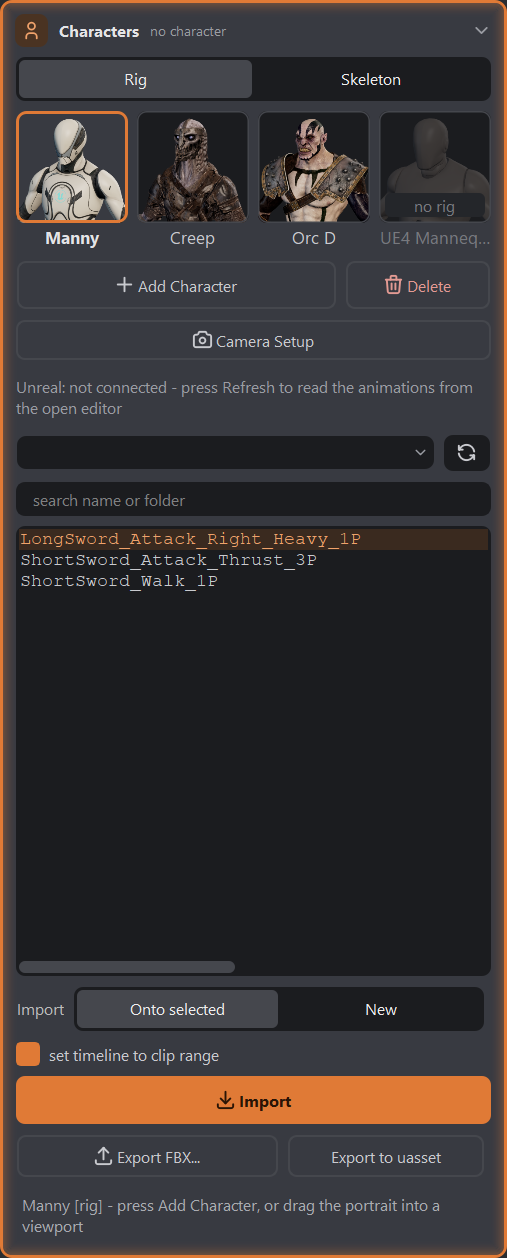
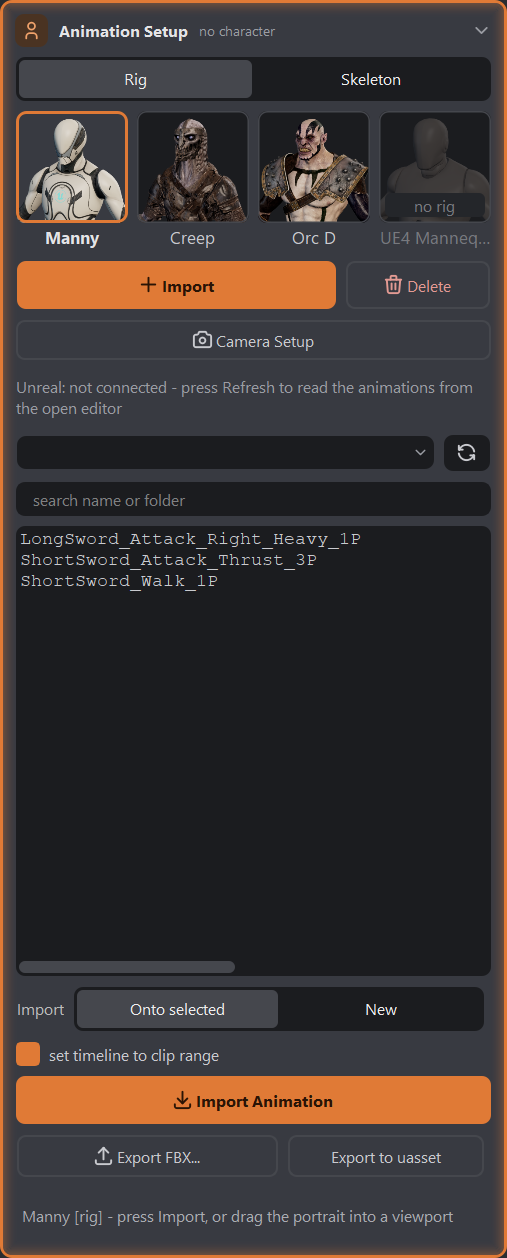
feat(characters): the card is Animation Setup; + Import and Import Animation, both orange
«Давай Раздел Character Заменим на Animationsetup. Add Character на + Import
(Вернем кнопке оранжевый цвет).» Asked how to tell the two Imports apart:
«+ Import» on top, «Import Animation» below, both orange.

- maya_hub: the card's label Animation Setup, its key still "characters".
- Add Character is «+ Import», primary again (the skin's «Import» with its
  plus icon; the classic hub spells «+ Import»); the bridge's button is
  «Import Animation», primary too - one orange button per half.
- The wording follows: the portrait line, the «pick Rig in Animation Setup»
  refusal, the tooltips, Delete's dialog title, the hotkey rows.

Proof: verify_characters_card.py card + photo in a disposable Maya; 3507 unit tests.

diff --git a/tests/test_hub_sections.py b/tests/test_hub_sections.py
@@ -134,7 +134,7 @@ class SceneSetup(unittest.TestCase):
         """2026-09-18: the retarget's camera step, by hand, on camera_root."""
         labels = [c[2].get("label") for c in self.fake.calls if c[0] == "button"]
         self.assertIn("Camera Setup", labels)
-        self.assertLess(labels.index("Add Character"), labels.index("Camera Setup"))
+        self.assertLess(labels.index("+ Import"), labels.index("Camera Setup"))
         for name in (scenesetup._WEAPONS_BOUND, scenesetup._STATUS):
             self.assertNotIn(name, self.after_characters, name)
 
@@ -216,16 +216,18 @@ class SceneSetup(unittest.TestCase):
 
     def test_one_primary_action_per_section(self):
         roles = self._button_roles()
-        #  2026-10-01: the UE Bridge in the card - Import is its one primary,
-        #  Add Character an ordinary button beside Delete
-        self.assertEqual(roles["Add Character"], ("secondary", "plus"))
-        self.assertEqual(roles["Import"], ("primary", "download"))
+        #  2026-10-01: the UE Bridge in the card; the same evening «Add
+        #  Character на + Import (Вернем кнопке оранжевый цвет)» and the
+        #  bridge's Import is «Import Animation» - a primary for each half
+        self.assertEqual(roles["+ Import"], ("primary", "plus"))
+        self.assertEqual(roles["Import Animation"], ("primary", "download"))
+        self.assertNotIn("Add Character", roles)
         self.assertEqual(roles["Camera Setup"], ("secondary", "camera"))
         self.assertEqual(roles["Add"], ("primary", "plus"))
         self.assertEqual(roles["Remove Weapon"], ("danger", "trash"))
         primaries = [label for label, (role, _i) in roles.items()
                      if role == "primary"]
-        self.assertEqual(sorted(primaries), ["Add", "Import"])
+        self.assertEqual(sorted(primaries), ["+ Import", "Add", "Import Animation"])
 
     def test_the_bridge_rows_follow_camera_setup_and_the_card_has_one_line(self):
         """2026-10-01 («UE bridge и character ... объеденить в одно окно»):
@@ -239,13 +241,30 @@ class SceneSetup(unittest.TestCase):
         self.assertEqual(len(lists), 1)
         self.assertEqual(len(line), 1)
         self.assertLess(index["Camera Setup"], lists[0])
-        self.assertLess(lists[0], index["Import"])
-        self.assertLess(index["Import"], line[0])
+        self.assertLess(index["+ Import"], lists[0])
+        self.assertLess(lists[0], index["Import Animation"])
+        self.assertLess(index["Import Animation"], line[0])
         for name in (uebridge._LIST, uebridge._SEARCH, uebridge._HEADER,
                      uebridge._TIMELINE, uebridge._PROJECT):
             self.assertIn(name, self.after_characters, name)
         statuses = [m.name for m in self.marks if m.role == "status"]
         self.assertEqual(statuses, [scenesetup._CHARACTER_STATUS, scenesetup._STATUS])
+
+    def test_the_import_button_reads_plus_import(self):
+        """«Add Character на + Import»: the skin draws the plus icon beside
+        «Import», the classic hub (no icons) spells «+ Import»."""
+        fake = FakeUiCmds()
+        scenesetup.cmds = fake
+        maya_hubstyle.set_skinning(True)
+        try:
+            scenesetup.build_characters_panel()
+        finally:
+            maya_hubstyle.set_skinning(False)
+        labels = [c[2].get("label") for c in fake.calls
+                  if c[0] == "button" and not c[2].get("edit")]
+        self.assertIn("Import", labels)
+        self.assertNotIn("+ Import", labels)
+        self.assertNotIn("Add Character", labels)
 
     def test_the_bridge_writes_the_card_s_line(self):
         self.assertEqual(uebridge._STATUS, scenesetup._CHARACTER_STATUS)
@@ -285,10 +304,11 @@ class SceneSetup(unittest.TestCase):
         self.assertEqual(between, [])
 
     def test_characters_has_delete_beside_add_character(self):
-        """2026-10-01: «кнопку удаления» - a danger button in Add Character's
-        row, pressing `delete_characters` onto the card's own line."""
+        """2026-10-01: «кнопку удаления» - a danger button in the + Import
+        row (Add Character until that evening), pressing `delete_characters`
+        onto the card's own line."""
         index = self._created_index()
-        add, delete = index["Add Character"], index["Delete"]
+        add, delete = index["+ Import"], index["Delete"]
         rows = [i for i, c in enumerate(self.fake.calls) if c[0] == "rowLayout"]
         row = max(i for i in rows if i < add)
         self.assertLess(row, delete)
@@ -506,7 +526,8 @@ class UeBridge(unittest.TestCase):
         self.assertEqual([m.icon for m in marks], ["download"])
         labels = [c[2]["label"] for c in self.fake.calls if c[0] == "button"
                   and not c[2].get("edit")]
-        self.assertIn("Import", labels)
+        self.assertIn("Import Animation", labels)
+        self.assertNotIn("Import", labels)
         self.assertIn("Export FBX...", labels)
         self.assertIn("Export to uasset", labels)
 

diff --git a/docs/superpowers/plans/verify_characters_card.py b/docs/superpowers/plans/verify_characters_card.py
@@ -273,9 +273,10 @@ def phase_card():
             groups.append(name.split("_", 1)[1])
         elif name.startswith("skeldarHubCard_"):
             cards.append(name.split("_", 1)[1])
-    gate(1, "the first card is Characters, the Scene group first; no UE Bridge card; "
-            "show('uebridge') opened and lit Characters",
+    gate(1, "the first card is Animation Setup (key characters), the Scene group first; "
+            "no UE Bridge card; show('uebridge') opened and lit it",
          cards[0] == "characters" and groups[0] == "scene" and "uebridge" not in skin.cards
+         and maya_hub.section("characters").label == "Animation Setup"
          and not skin.cards["characters"].collapsed() and skin.active == "characters",
          "cards %s | groups %s | active %s" % (cards[:4], groups, skin.active))
 
@@ -308,10 +309,11 @@ def phase_card():
             labels[button.text()] = button.mapTo(frame, q.QtCore.QPoint(0, 0)).y()
     body = [n for n in names[3:]]
     order_ok = (None not in ys and ys[0] < ys[1]
-                and labels.get("Add Character", 1e9) > ys[1]
+                and labels.get("Import", 1e9) > ys[1]
                 and labels.get("Camera Setup", 1e9) < ys[3]
                 and all(ys[i] <= ys[i + 1] for i in range(3, len(ys) - 1))
-                and ys[-2] < labels.get("Import", -1) < labels.get("Export FBX...", -1) < ys[-1])
+                and ys[-2] < labels.get("Import Animation", -1)
+                < labels.get("Export FBX...", -1) < ys[-1])
     #  the status lines in the card, by their names: the card's, and the
     #  bridge's own of before the merge (which must be gone)
     lines = [w.objectName() for w in frame.findChildren(q.QtWidgets.QWidget)
@@ -323,7 +325,7 @@ def phase_card():
          "y %s | buttons %s | status lines %s" % (
              dict(zip([n.split("|")[-1] for n in names], ys)),
              dict((k, v) for k, v in labels.items() if k in (
-                 "Add Character", "Delete", "Camera Setup", "Import", "Export FBX...",
+                 "Import", "Delete", "Camera Setup", "Import Animation", "Export FBX...",
                  "Export to uasset", "Onto selected", "New")), lines))
 
     content = skin.content
@@ -334,7 +336,8 @@ def phase_card():
 
     primaries = [b.text() for b in frame.findChildren(q.QtWidgets.QPushButton)
                  if b.property("skRole") == "primary"]
-    gate(4, "Import is the card's one primary", primaries == ["Import"], "%s" % primaries)
+    gate(4, "two primaries, one per half: + Import and Import Animation",
+         sorted(primaries) == ["Import", "Import Animation"], "%s" % primaries)
 
     window._status("from the bridge")
     first = status()
@@ -523,7 +526,7 @@ def phase_skel_refuse():
     gate(11, "refusals before the editor: two skeletons and nothing selected (both "
              "named), a rig selected with Skeleton picked",
          two.startswith("2 skeletons in the scene (") and "select any bone or mesh" in two
-         and rig == "%s is a rig - pick Rig in Characters, or select a skeleton" % ns
+         and rig == "%s is a rig - pick Rig in Animation Setup, or select a skeleton" % ns
          and WORLD["exported"] == [],
          "%r | %r | exported %s" % (two, rig, WORLD["exported"]))
 

diff --git a/SkeldarAnim/maya_scenesetup/window.py b/SkeldarAnim/maya_scenesetup/window.py
@@ -565,7 +565,7 @@ def character_changed():
     """Remember the choice. Nothing else: the press is what imports."""
     entry = chosen_character()
     cmds.optionVar(stringValue=(_CHARACTER_OPTIONVAR, entry.label))
-    _status("Add Character will import: {0}".format(entry.label),
+    _status("Import will bring: {0}".format(entry.label),
             _CHARACTER_STATUS)
 
 
@@ -825,7 +825,7 @@ def _attach_grid(model, kind):
 def _character_dropdown():
     """Every character row in one dropdown: the card without Qt."""
     cmds.optionMenu(_CHARACTER,
-                    annotation="What Add Character puts into the scene. "
+                    annotation="What + Import puts into the scene. "
                                "The [rig] rows are AdvancedSkeleton rigs - "
                                "the characters the UE Bridge retargets onto; "
                                "the [skeleton] rows are bare skeletons.",
@@ -872,7 +872,9 @@ def build_characters_panel():
     (`maya_uebridge.window.build_rows`) - the animation list, Import
     [Onto selected | New], the exports - and the card has ONE status line,
     which the bridge writes too. The [Rig | Skeleton] above says what Import
-    makes as well as what Add does; Import is the card's one primary.
+    makes as well as what Add does. The same evening the card is called
+    Animation Setup, Add Character is «+ Import» and orange again, and the
+    bridge's Import is «Import Animation» - two primaries, one per half.
     """
     column = cmds.columnLayout(adjustableColumn=True, rowSpacing=6,
                                columnOffset=("both", hubstyle.pick(0, 8)))
@@ -888,14 +890,16 @@ def build_characters_panel():
 
     cmds.rowLayout(numberOfColumns=2, adjustableColumn=1,
                    columnAttach=[(1, "both", 0), (2, "left", 4)])
+    #  «Add Character на + Import (Вернем кнопке оранжевый цвет)»: the card's
+    #  first primary again; the skin draws the plus, the classic hub spells it.
     hubstyle.mark(cmds.button(
-        label="Add Character", height=32,
+        label=hubstyle.pick("Import", "+ Import"), height=32,
         annotation="Import the picked rig or skeleton into this scene, at "
                    "the origin -- or drag its portrait into a viewport to "
                    "stand it where it lands. As many as you like, each rig "
                    "in its own namespace; the Colour section repaints it.",
         command=lambda *_args: _run(add_character, _CHARACTER_STATUS)),
-        "secondary", "plus")
+        "primary", "plus")
     hubstyle.mark(cmds.button(
         label="Delete", height=32, width=hubstyle.pick(96, 80),
         annotation="Delete the characters the selection belongs to - select "

diff --git a/SkeldarAnim/maya_uebridge/window.py b/SkeldarAnim/maya_uebridge/window.py
@@ -304,7 +304,7 @@ TARGETS = ("onto", "new")                   # the Import row's two segments
 #  («Слить»: the bridge's old Rig / New rig / Skeleton said the kind twice).
 TARGET_SEGMENTS = (
     ("onto", "Onto selected",
-     "Onto the selected character: with Rig picked in Characters the "
+     "Onto the selected character: with Rig picked in Animation Setup the "
      "SELECTED AdvancedSkeleton rig (any control, bone or mesh), else the "
      "only one - a rig of the picked portrait is added when the scene has "
      "none; with Skeleton picked the selected skeleton (a bone, its mesh, "
@@ -315,7 +315,7 @@ TARGET_SEGMENTS = (
      "deleted. Several picked: the first goes."),
     ("new", "New",
      "A NEW character of the picked portrait - its rig or its skeleton, as "
-     "Characters says - takes the clip; several picked stand in a square "
+     "Animation Setup says - takes the clip; several picked stand in a square "
      "about the scene's zero, one per animation."),
 )
 
@@ -699,9 +699,9 @@ def build_rows():
     cmds.textScrollList(
         _LIST, allowMultiSelection=True, font="fixedWidthFont",
         height=LIST_HEIGHT,
-        annotation="Double-click imports the way Characters and the Import "
+        annotation="Double-click imports the way Animation Setup and the Import "
                    "row say. Drag a row into a viewport: with Rig picked in "
-                   "Characters, onto a rig it retargets there and the rig "
+                   "Animation Setup, onto a rig it retargets there and the rig "
                    "keeps its place, onto empty floor a new rig of the picked "
                    "portrait stands where you pointed; with Skeleton picked, "
                    "onto a skeleton it goes on that skeleton (a rig is "
@@ -730,9 +730,9 @@ def build_rows():
     cmds.checkBox(_TIMELINE, label="set timeline to clip range", value=True)
 
     hubstyle.mark(cmds.button(
-        label="Import", height=32,
+        label="Import Animation", height=32,
         annotation="Import the selected animation(s) from Unreal onto the "
-                   "character Characters and the Import row say",
+                   "character Animation Setup and the Import row say",
         command=lambda *_: _run(import_selected,
                                 busy="exporting from the editor...")),
         "primary", "download")

diff --git a/SkeldarAnim/maya_hotkeys.py b/SkeldarAnim/maya_hotkeys.py
@@ -171,7 +171,7 @@ def _scene(func, *args, **kwargs):
             module.show_weapons()
             return _report("Weapons opened - press again")
         module.show_window()
-        return _report("Characters opened - press again")
+        return _report("Animation Setup opened - press again")
     return getattr(module, func)(*args)
 
 
@@ -741,8 +741,8 @@ _OURS = (
     ("window.uebridge", "Windows", "UE Bridge",
      "Open the UE animation bridge",
      partial(_show, "maya_uebridge", "show_window")),
-    ("window.scenesetup", "Windows", "Characters",
-     "Open the Characters section: add the rig or a skeleton",
+    ("window.scenesetup", "Windows", "Animation Setup",
+     "Open the Animation Setup section: the rig or a skeleton, and the UE Bridge",
      partial(_show, "maya_scenesetup", "show_window")),
     ("window.weapons", "Windows", "Weapons",
      "Open the Weapons section: a weapon in the hand, the grip",
@@ -799,7 +799,7 @@ _OURS = (
      "Select every controller on the body map",
      partial(_picker, "select_group", "all")),
 
-    ("scene.character", "Scene Setup", "Add Character",
+    ("scene.character", "Scene Setup", "Import Character",
      "Import the chosen skeleton into this scene",
      partial(_scene, "add_character")),
     ("scene.weapon", "Scene Setup", "Add Weapon",

diff --git a/tests/test_hub.py b/tests/test_hub.py
@@ -83,9 +83,10 @@ class TheTable(unittest.TestCase):
         same day, the Center of Mass Animation on 2026-10-01, Armor Scene the same day.
         And the same evening the UE Bridge became part of Characters, the
         first card - the Scene group above Animation («Characters самой
-        первой, Scene выше»)."""
+        первой, Scene выше») - and was named Animation Setup («Раздел
+        Character Заменим на Animationsetup»), its key still "characters"."""
         self.assertEqual([s.label for s in hub.SECTIONS],
-                         ["Characters", "Weapons", "Connections", "Shared",
+                         ["Animation Setup", "Weapons", "Connections", "Shared",
                           "Armor", "Retarget", "Graph Overlay",
                           "Center of Mass",
                           "Studio", "Colour", "Hotkeys", "Update"])
@@ -277,7 +278,7 @@ class BuildWithABrokenTool(FakeToolsMixin, unittest.TestCase):
         hub.build()
         texts = [c[2].get("label", "") for c in self.fake.calls
                  if c[0] == "text"]
-        self.assertTrue(any("Characters could not be built" in t
+        self.assertTrue(any("Animation Setup could not be built" in t
                             and "boom" in t for t in texts))
 
 

diff --git a/SkeldarAnim/maya_hub.py b/SkeldarAnim/maya_hub.py
@@ -81,9 +81,11 @@ Section = collections.namedtuple("Section",
 #  2026-10-01 («UE bridge и character ... их нужно объеденить в одно окно»):
 #  the UE Bridge is part of the Characters card, and that card is the first
 #  - the Scene group above Animation now (asked: «Characters самой первой,
-#  Scene выше»). Weapons still follows Characters.
+#  Scene выше»). Weapons still follows Characters. The same evening it is
+#  called Animation Setup («Раздел Character Заменим на Animationsetup»); its
+#  key stays "characters" - the collapse memory, the aliases, every opener.
 SECTIONS = (
-    Section("characters", "Characters", "maya_scenesetup.window",
+    Section("characters", "Animation Setup", "maya_scenesetup.window",
             "build_characters_panel", "skeldarHubFrameCharacters",
             "scene", "user"),
     Section("weapons", "Weapons", "maya_scenesetup.window",

diff --git a/tests/test_uebridge_window.py b/tests/test_uebridge_window.py
@@ -170,7 +170,7 @@ class NoPerforce(unittest.TestCase):
     def test_the_three_buttons_and_two_targets(self):
         src = self._source()
         for label in ('label="Export FBX..."', 'label="Export to uasset"',
-                      'label="Import"', '"Onto selected"', '"New"'):
+                      'label="Import Animation"', '"Onto selected"', '"New"'):
             self.assertIn(label, src, label)
         self.assertTrue(callable(window.export_fbx_selected))
         self.assertTrue(callable(window.export_uasset_selected))

diff --git a/tests/test_uebridge_skeletonimport.py b/tests/test_uebridge_skeletonimport.py
@@ -220,7 +220,7 @@ class ChooseSkeleton(unittest.TestCase):
     def test_a_rig_named_says_pick_rig(self):
         root, refusal = self.choose([], ["Manny_Rig"])
         self.assertIsNone(root)
-        self.assertEqual(refusal, "Manny_Rig is a rig - pick Rig in Characters, or "
+        self.assertEqual(refusal, "Manny_Rig is a rig - pick Rig in Animation Setup, or "
                                   "select a skeleton")
 
     def test_a_skeleton_named_beside_a_rig_wins(self):

diff --git a/SkeldarAnim/maya_uebridge/skeletonimport.py b/SkeldarAnim/maya_uebridge/skeletonimport.py
@@ -127,7 +127,7 @@ def choose_skeleton(named, rig_labels, bare, labels=None):
             len(picked), ", ".join(name(r) for r in picked))
     rigs = list(dict.fromkeys(rig_labels or []))
     if rigs:
-        return None, ("{0} is a rig - pick Rig in Characters, or select a "
+        return None, ("{0} is a rig - pick Rig in Animation Setup, or select a "
                       "skeleton".format(", ".join(rigs)))
     bare = list(bare or [])
     if len(bare) == 1:

diff --git a/SkeldarAnim/maya_scenesetup/deletion.py b/SkeldarAnim/maya_scenesetup/deletion.py
@@ -799,7 +799,7 @@ def _confirm(text):
     if cmds.about(batch=True):
         return True
     answer = cmds.confirmDialog(
-        title="Characters - Delete", message=text, icon="warning",
+        title="Animation Setup - Delete", message=text, icon="warning",
         button=["Delete", "Cancel"], defaultButton="Cancel", cancelButton="Cancel",
         dismissString="Cancel")
     return answer == "Delete"

diff --git a/tests/test_hotkeys.py b/tests/test_hotkeys.py
@@ -685,7 +685,7 @@ class RunPressesThePanel(SeamCase):
         maya_hotkeys.run("scene.character")
         self.assertEqual(panel.shown, 1)
         self.assertEqual(panel.calls, [])
-        self.assertIn("Characters", self.fake.messages[-1])
+        self.assertIn("Animation Setup", self.fake.messages[-1])
 
     def test_overshoot_passes_the_shape(self):
         panel = FakePanelModule()
